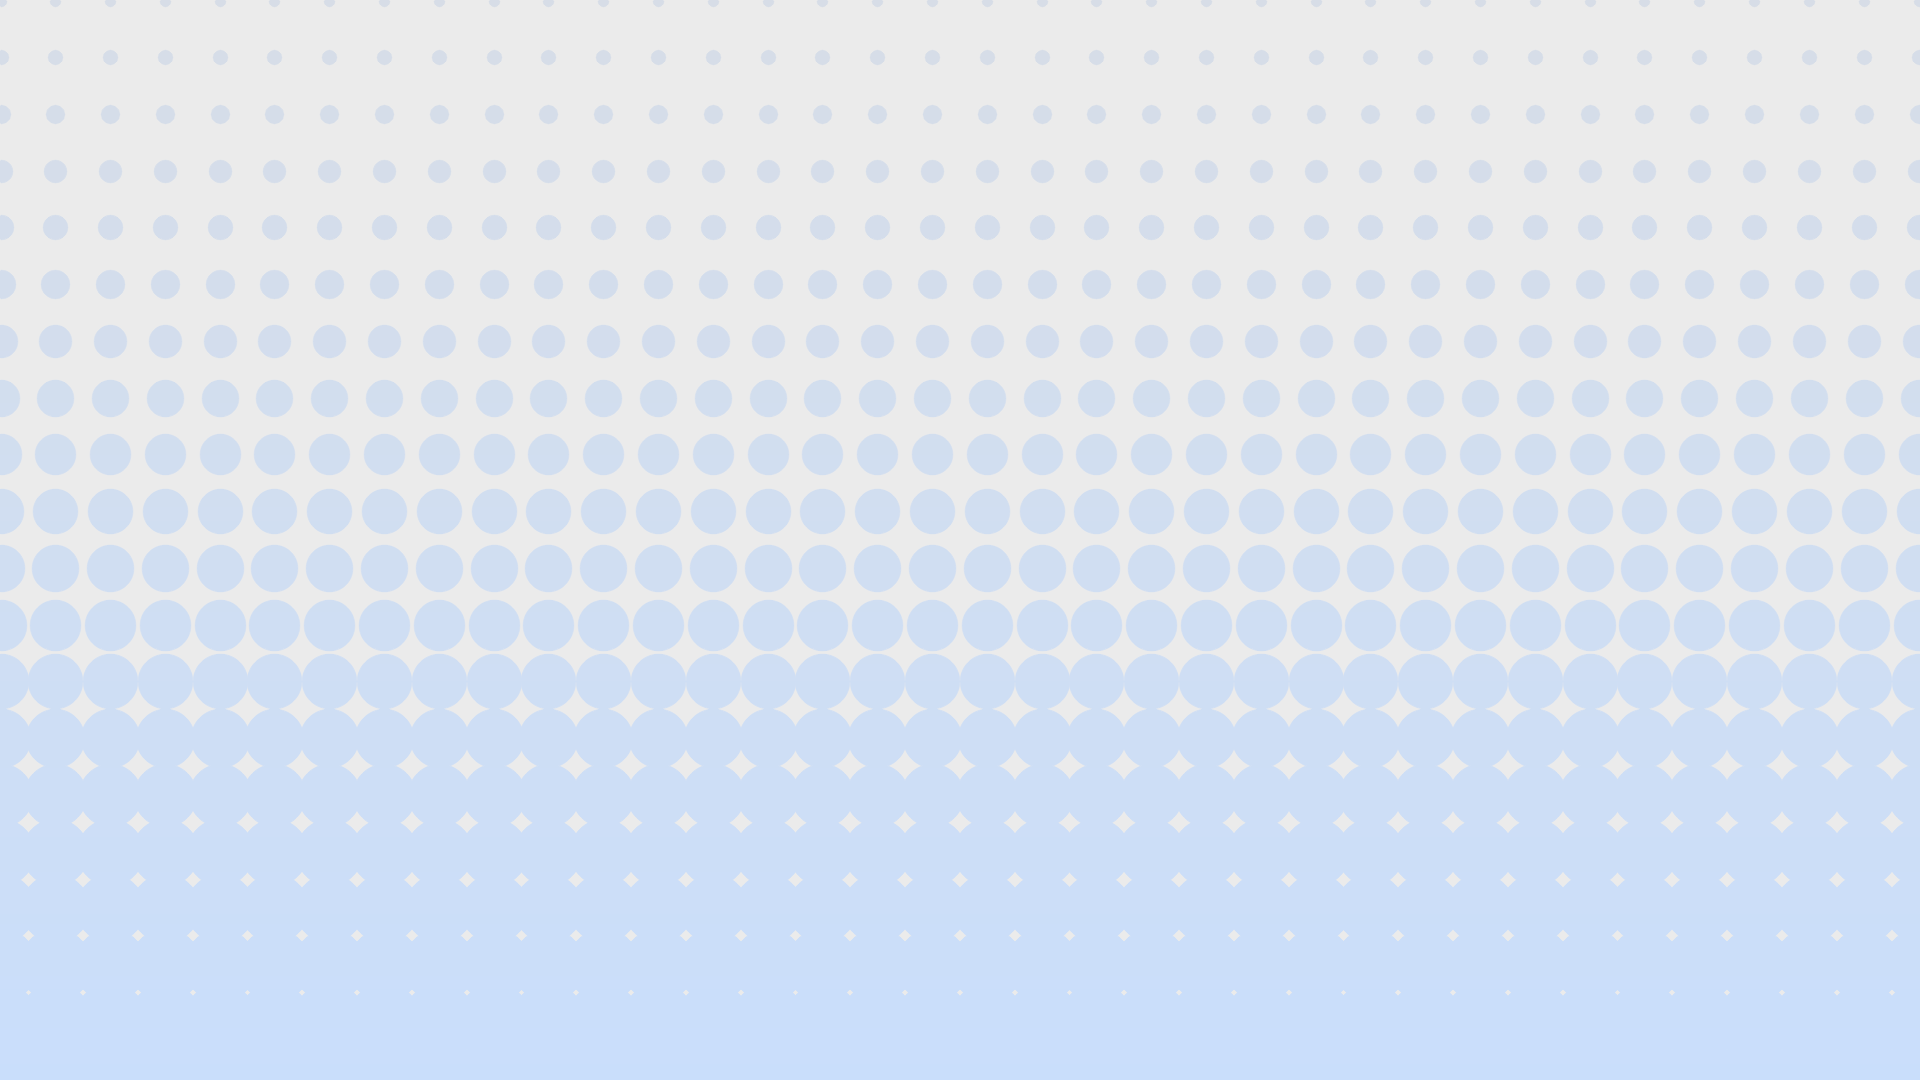
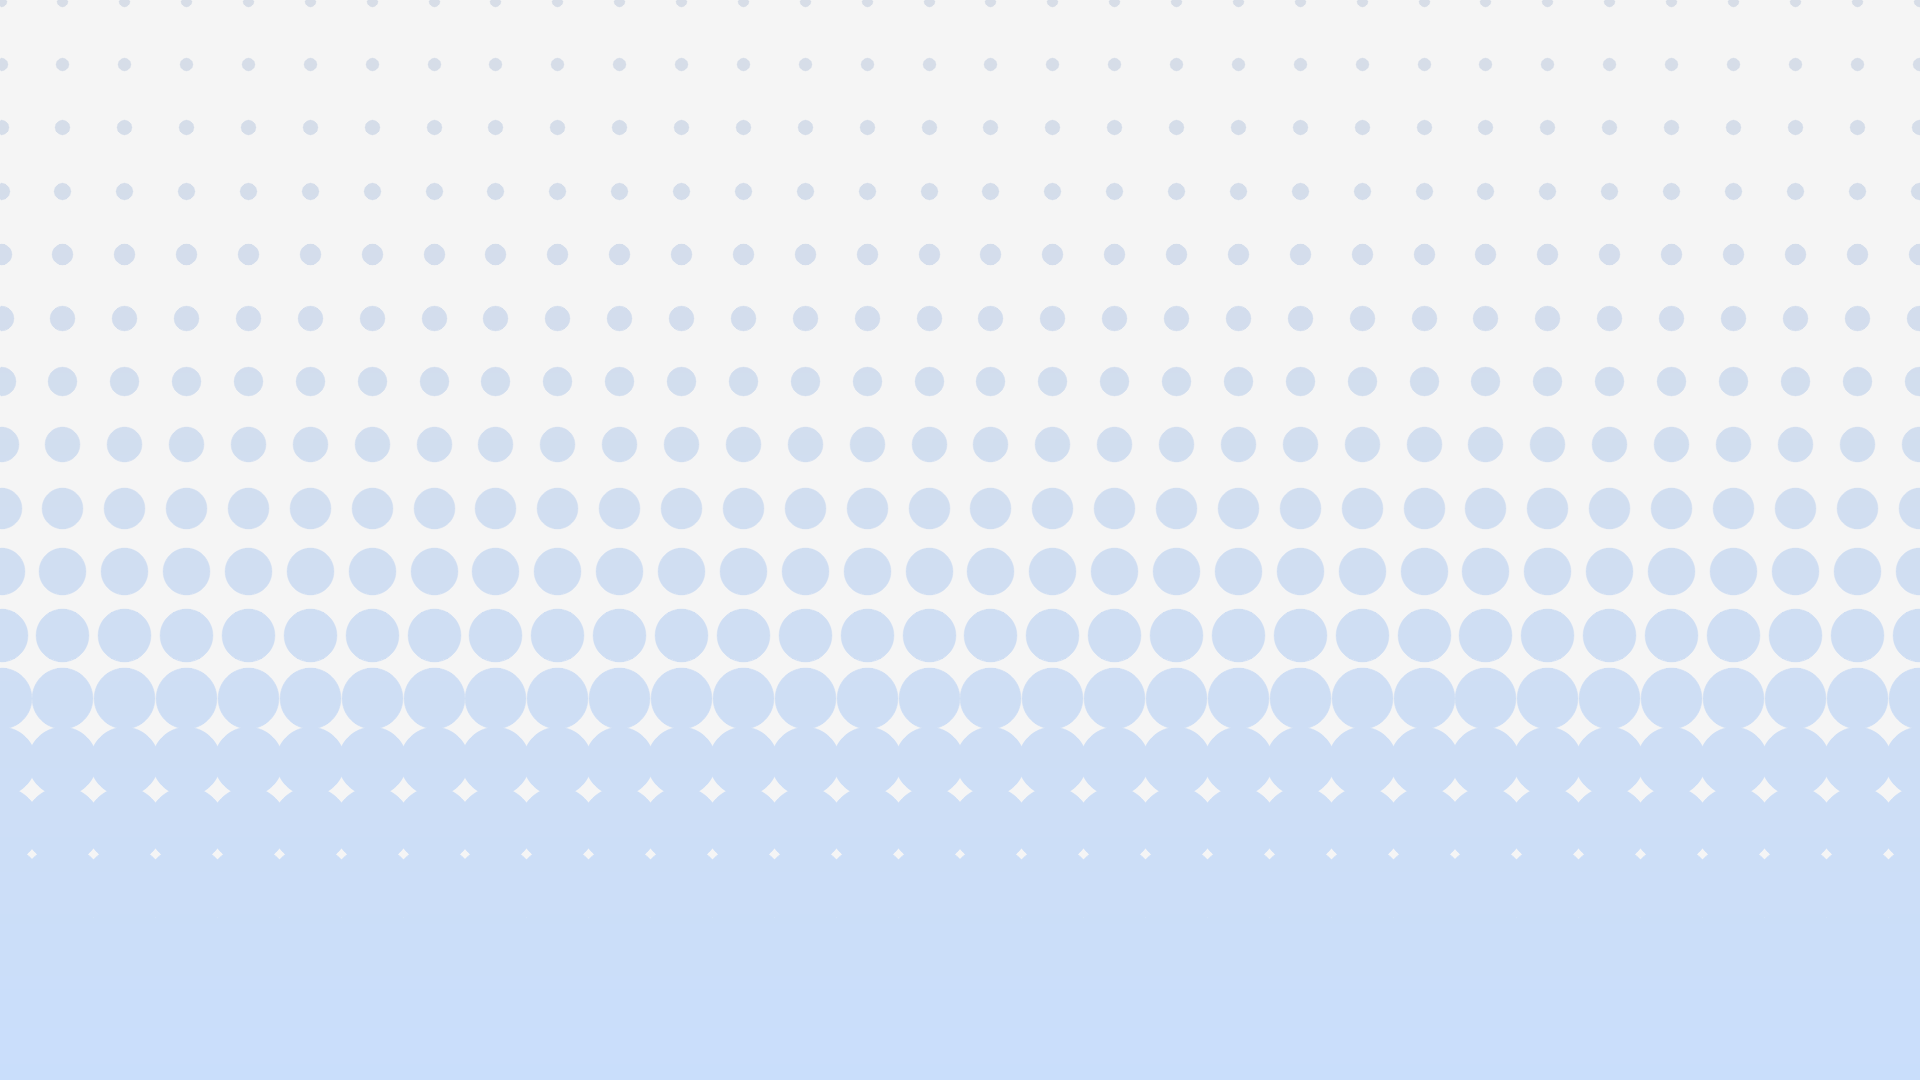
#140 modified (#143)
* added `gamma` parameter to accelerate the vertical circle size.
* change background white level from 235 to 245

diff --git a/2021/05_bg_image_for_YouTube/bg_image_for_youtube.py b/2021/05_bg_image_for_YouTube/bg_image_for_youtube.py
@@ -74,13 +74,17 @@ def sRGB_to_Lab(rgb=[201/255, 222/255, 251/255]):
 def create_alpha_circle_image(
         width=1920, height=1080,
         h_num=3, v_num=2, fg_width=200, fg_height=200,
-        min_rad=5, max_rad=50):
+        min_rad=5, max_rad=50, gamma=1.0):
     gc = GridCoordinate(
         bg_width=width, bg_height=height,
         fg_width=fg_width, fg_height=fg_height,
         h_num=h_num, v_num=v_num, remove_tblr_margin=True)
     pos_list = gc.get_st_pos_list()
-    rad_list = np.uint16(np.round(np.linspace(min_rad, max_rad, v_num)))
+    rad_rate = (np.linspace(min_rad, max_rad, v_num) - min_rad)\
+        / (max_rad - min_rad)
+    rad_rate = rad_rate ** gamma
+    rad_list = np.uint16(np.round(rad_rate * (max_rad - min_rad) + min_rad))
+    print(rad_list)
     fg_img = np.ones((height, width, 3), dtype=np.uint8) * 255
     for v_idx in range(v_num):
         for h_idx in range(h_num):
@@ -104,12 +108,12 @@ def create_youtube_bg_image():
 
 
 def main_func():
-    create_bg_image(color=np.array([1, 1, 1])*235/255)
+    create_bg_image(color=np.array([1, 1, 1])*245/255)
     create_fg_image(rgb=[174/255, 197/255, 244/255])
     create_alpha_circle_image(
         width=1920, height=1080,
-        h_num=int(16*2.3), v_num=int(9*2.3), fg_width=2, fg_height=2,
-        min_rad=5, max_rad=40)
+        h_num=int(16*2), v_num=int(9*2), fg_width=2, fg_height=2,
+        min_rad=5, max_rad=55, gamma=1.6)
     create_youtube_bg_image()
 
 
